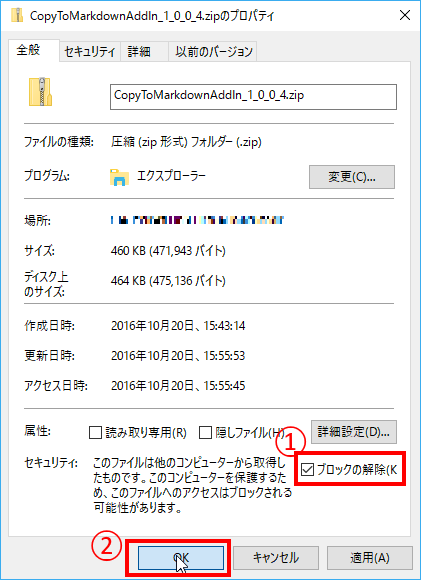
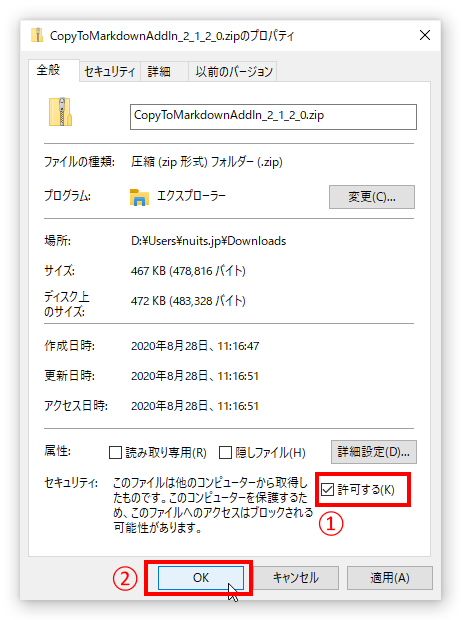
Update README-jp.mc

Changed region(s): [[0.0, 0.0, 1.0, 1.0]]

diff --git a/README-jp.md b/README-jp.md
@@ -32,7 +32,7 @@ Github上にzip形式でインストーラーを置いてあります。
 
 1. 以下からダウンロードする
 [https://github.com/nuitsjp/CopyToMarkdownAddIn/releases](https://github.com/nuitsjp/CopyToMarkdownAddIn/releases)
-2. <span style="color: #ff0000"><b>zipファイル右クリックしてプロパティを開き、「ブロックの解除」のチェックをONにする</b></span>
+2. <span style="color: #ff0000"><b>zipファイル右クリックしてプロパティを開き、「許可する」のチェックをONにする</b></span>
 3. setup.exeを実行する
 
 <b><span style="color: #ff0000">※要注意※
